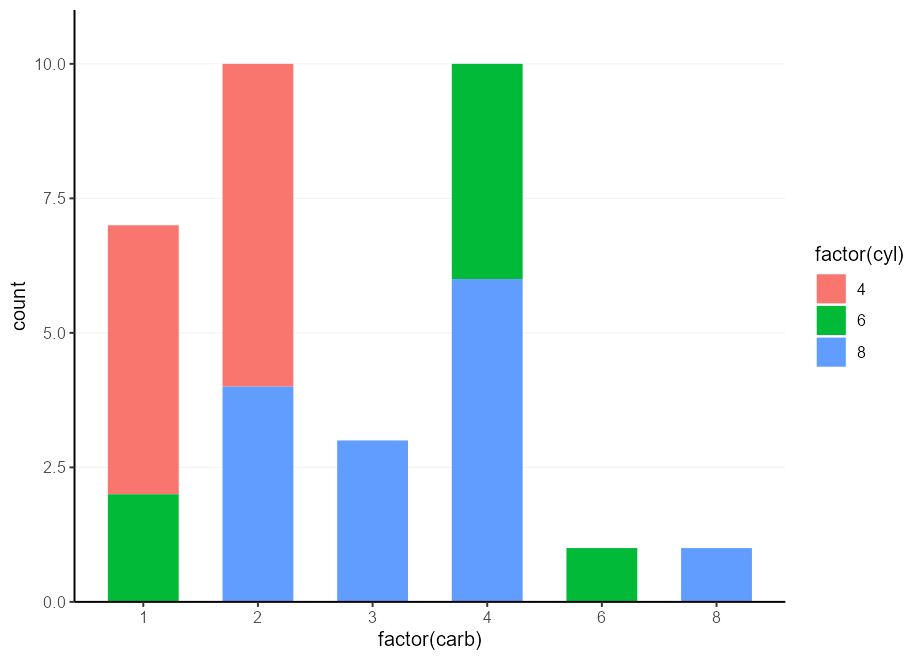
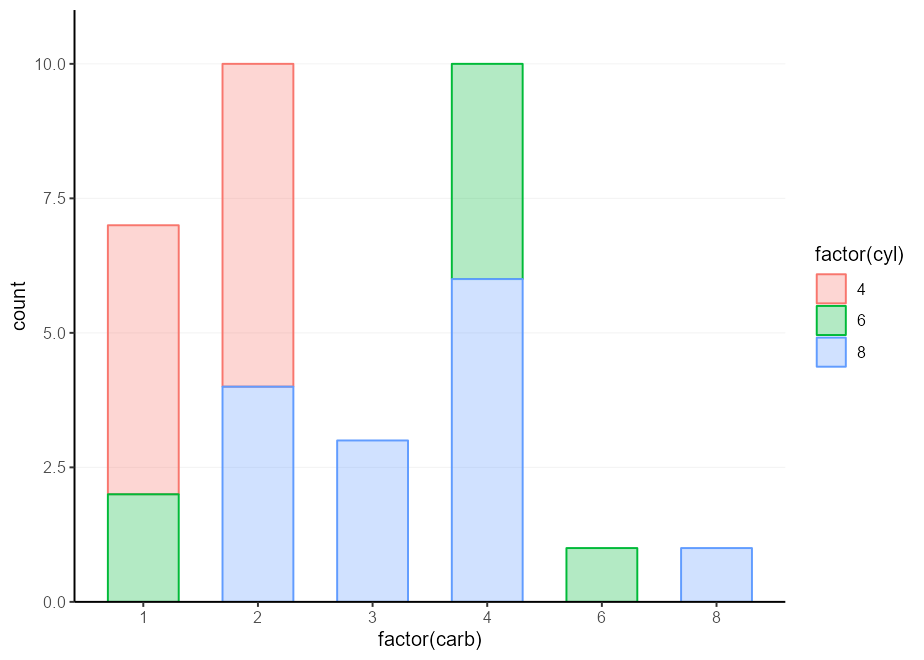
Add splicing

diff --git a/README.md b/README.md
@@ -24,15 +24,18 @@ decide later to put them into separate groups in other files.
 ## Table of contents
 
 1.  [Start-up](#let's-begin)
-2.  [Half-geoms](#half-geoms)
+2.  [Splicing aesthetics](#splicing-aesthetics)
+    1.  [Colour-fill relations](#relating-colour-and-fill)
+    2.  [Text contrast](#text-contrast)
+3.  [Half-geoms](#half-geoms)
     1.  [Half-boxplots](#half-boxplots)
     2.  [Half-errorbars](#half-errorbars)
     3.  [Half-violin](#half-violin)
     4.  [Combining](#combining)
-3.  [Midpoints in diverging
+4.  [Midpoints in diverging
     scales](#setting-midpoints-in-divergent-scales)
-4.  [Facetted tags](#facetted-tags)
-5.  [Recycling plots](#recycling-plots)
+5.  [Facetted tags](#facetted-tags)
+6.  [Recycling plots](#recycling-plots)
     1.  [Functions](#functions)
     2.  [Skeletons](#skeletons)
     3.  [Ribcage](#ribcage)
@@ -62,6 +65,93 @@ theme_set(
 )
 ```
 
+## Splicing aesthetics
+
+The `?aes` documentation doesn’t tell you this, but you can splice the
+`mapping` argument in ggplot2. What does that mean? Well it means that
+you can compose the `mapping` argument on the go with `!!!`. This is
+especially nifty if you need to recycle aesthetics every once in a
+while.
+
+``` r
+my_mapping <- aes(x = foo, y = bar)
+
+aes(colour = qux, !!!my_mapping)
+#> Aesthetic mapping: 
+#> * `x`      -> `foo`
+#> * `y`      -> `bar`
+#> * `colour` -> `qux`
+```
+
+### Relating colour and fill
+
+My personal favourite use of this is to make the `fill` colour match the
+`colour` colour, but slightly lighter[^2]. We’ll use the delayed
+evaluation system for this, `after_scale()` in this case, which you’ll
+see more of in the section following this one. I’ll repeat this trick a
+couple of times throughout this document.
+
+``` r
+my_fill <- aes(fill = after_scale(alpha(colour, 0.3)))
+
+ggplot(mpg, aes(displ, hwy)) +
+  geom_point(aes(colour = factor(cyl), !!!my_fill), shape = 21)
+```
+
+<img src="man/figures/README-splice_colour-1.png" width="80%" style="display: block; margin: auto;" />
+
+### Text contrast
+
+You may find yourself in a situation wherein you’re asked to make a
+heatmap of a small number of variables. Typically, sequential scales run
+from light to dark or vice versa, which makes text in a single colour
+hard to read. We could devise a method to automatically write the text
+in white on a dark background, and black on a light background. The
+function below considers a lightness value for a colour, and returns
+either black or white depending on that lightness.
+
+``` r
+contrast <- function(colour) {
+  out   <- rep("black", length(colour))
+  light <- farver::get_channel(colour, "l", space = "hcl")
+  out[light < 50] <- "white"
+  out
+}
+```
+
+Now, we can make an aesthetic to be spliced into a layer’s `mapping`
+argument on demand.
+
+``` r
+autocontrast <- aes(colour = after_scale(contrast(fill)))
+```
+
+Lastly, we can test out our automatic contrast contraption. You may
+notice that it adapts to the scale, so you wouldn’t need to do a bunch
+of conditional formatting for this.
+
+``` r
+cors <- cor(mtcars)
+
+# Melt matrix
+df <- data.frame(
+  col = colnames(cors)[as.vector(col(cors))],
+  row = rownames(cors)[as.vector(row(cors))],
+  value = as.vector(cors)
+)
+
+# Basic plot
+p <- ggplot(df, aes(row, col, fill = value)) +
+  geom_raster() +
+  geom_text(aes(label = round(value, 2), !!!autocontrast)) +
+  coord_equal()
+
+p + scale_fill_viridis_c(direction =  1)
+p + scale_fill_viridis_c(direction = -1)
+```
+
+<img src="man/figures/README-splice_contrast-1.png" width="80%" style="display: block; margin: auto;" /><img src="man/figures/README-splice_contrast-2.png" width="80%" style="display: block; margin: auto;" />
+
 ## Half-geoms
 
 There are some extensions that offer half-geom versions of things. Of
@@ -81,7 +171,7 @@ respectively. This still works fine with `position = "dodge"`.
 
 ``` r
 # A basic plot to reuse for examples
-p <- ggplot(mpg, aes(class, displ, colour = class)) +
+p <- ggplot(mpg, aes(class, displ, colour = class, !!!my_fill)) +
   guides(colour = "none", fill = "none") +
   labs(y = "Engine Displacement [L]", x = "Type of car")
 
@@ -202,7 +292,7 @@ similar thing in vanilla ggplot2.
 
 Luckily, there is a mechanic in ggplot2’s position axes that let’s
 `-Inf` and `Inf` be interpreted as the scale’s minimum and maximum limit
-respectively[^2]. You can exploit this by choosing `x = Inf, y = Inf` to
+respectively[^3]. You can exploit this by choosing `x = Inf, y = Inf` to
 put the labels in a corner. You can also use `-Inf` instead of `Inf` to
 place at the bottom instead of top, or left instead of right.
 
@@ -250,7 +340,7 @@ p + facet_wrap(~ class, scales = "free") +
 
 Let’s say we’re tasked with making a bunch of similar plots, with
 different datasets and columns. For example, we might want to make a
-series of barplots[^3] with some specific pre-sets: we’d like the bars
+series of barplots[^4] with some specific pre-sets: we’d like the bars
 to touch the x-axis and not draw vertical gridlines.
 
 ### Functions
@@ -262,7 +352,7 @@ presets you want in your function.
 I case you might not know, there are various methods to [program with
 the `aes()`
 function](https://ggplot2.tidyverse.org/articles/ggplot2-in-packages.html#using-aes-and-vars-in-a-package-function),
-and using `{{ }}` (curly-curly) is one of the more flexible ways [^4].
+and using `{{ }}` (curly-curly) is one of the more flexible ways [^5].
 
 ``` r
 barplot_fun <- function(data, x) {
@@ -289,7 +379,7 @@ barplot_fun <- function(data, ...) {
     theme(panel.grid.major.x = element_blank())
 }
 
-barplot_fun(mpg, class, fill = factor(cyl))
+barplot_fun(mpg, class, colour = factor(cyl), !!!my_fill)
 ```
 
 <img src="man/figures/README-barplot_fun_ellipsis-1.png" width="80%" style="display: block; margin: auto;" />
@@ -309,7 +399,8 @@ barplot_skelly <- ggplot() +
   scale_y_continuous(expand = c(0, 0, 0.1, 0)) +
   theme(panel.grid.major.x = element_blank())
 
-my_plot <- barplot_skelly %+% mpg + aes(class, fill = factor(cyl)) 
+my_plot <- barplot_skelly %+% mpg + 
+  aes(class, colour = factor(cyl), !!!my_fill) 
 my_plot
 ```
 
@@ -320,12 +411,13 @@ filled in the `data` and `mapping` arguments, you can just replace them
 again and again.
 
 ``` r
-my_plot %+% mtcars + aes(factor(carb), fill = factor(cyl))
+my_plot %+% mtcars + 
+  aes(factor(carb), colour = factor(cyl), !!!my_fill)
 ```
 
 <img src="man/figures/README-barplot_skelly_replace-1.png" width="80%" style="display: block; margin: auto;" />
 
-### Ribcage[^5]
+### Ribcage[^6]
 
 The idea here is to not skeletonise the entire plot, but just a
 frequently re-used set of parts. For example, we might want to label our
@@ -336,23 +428,23 @@ together with the main plot call.
 
 ``` r
 labelled_bars <- list(
-  geom_bar(width = 0.618),
+  geom_bar(my_fill, width = 0.618),
   geom_text(
     stat = "count",
     aes(y     = after_stat(count), 
         label = after_stat(count), 
-        fill  = NULL),
-    vjust = -1
+        fill  = NULL, colour = NULL),
+    vjust = -1, show.legend = FALSE
   ),
   scale_y_continuous(expand = c(0, 0, 0.1, 0)),
   theme(panel.grid.major.x = element_blank())
 )
 
-ggplot(mpg, aes(class, fill = factor(cyl))) +
+ggplot(mpg, aes(class, colour = factor(cyl))) +
   labelled_bars +
   ggtitle("The `mpg` dataset")
 
-ggplot(mtcars, aes(factor(carb), fill = factor(cyl))) +
+ggplot(mtcars, aes(factor(carb), colour = factor(cyl))) +
   labelled_bars +
   ggtitle("The `mtcars` dataset")
 ```
@@ -367,14 +459,14 @@ Session info
     #> ─ Session info ───────────────────────────────────────────────────────────────
     #>  setting  value
     #>  version  R version 4.2.2 (2022-10-31 ucrt)
-    #>  os       Windows 10 x64 (build 22000)
+    #>  os       Windows 10 x64 (build 22621)
     #>  system   x86_64, mingw32
     #>  ui       RTerm
     #>  language (EN)
     #>  collate  English_United Kingdom.utf8
     #>  ctype    English_United Kingdom.utf8
     #>  tz       Europe/Berlin
-    #>  date     2023-02-05
+    #>  date     2023-02-14
     #>  pandoc   2.19.2
     #> 
     #> ─ Packages ───────────────────────────────────────────────────────────────────
@@ -390,7 +482,7 @@ Session info
     #>  farver        2.1.1   2022-07-06 []  CRAN (R 4.2.1)
     #>  fastmap       1.1.0   2021-01-25 []  CRAN (R 4.2.0)
     #>  generics      0.1.3   2022-07-05 []  CRAN (R 4.2.1)
-    #>  ggplot2     * 3.4.0   2022-11-04 []  CRAN (R 4.2.2)
+    #>  ggplot2     * 3.4.1   2023-02-10 []  CRAN (R 4.2.2)
     #>  glue          1.6.2   2022-02-24 []  CRAN (R 4.2.0)
     #>  gtable        0.3.1   2022-09-01 []  CRAN (R 4.2.1)
     #>  highr         0.10    2022-12-22 []  CRAN (R 4.2.2)
@@ -417,6 +509,7 @@ Session info
     #>  tidyselect    1.2.0   2022-10-10 []  CRAN (R 4.2.2)
     #>  utf8          1.2.2   2021-07-24 []  CRAN (R 4.2.0)
     #>  vctrs         0.5.0   2022-10-22 []  CRAN (R 4.2.2)
+    #>  viridisLite   0.4.1   2022-08-22 []  CRAN (R 4.2.1)
     #>  withr         2.5.0   2022-03-03 []  CRAN (R 4.2.0)
     #>  xfun          0.36    2022-12-21 []  CRAN (R 4.2.2)
     #>  yaml          2.3.5   2022-02-21 []  CRAN (R 4.2.0)
@@ -432,15 +525,20 @@ Session info
     Copy-paste that script for every project. Then, truly, *never* again
     :heart:.
 
-[^2]: Unless you self-sabotage your plots by setting
+[^2]: This is a lie. In reality, I use
+    `aes(colour = after_scale(colorspace::darken(fill, 0.3)))` instead
+    of lightening the fill. I didn’t want this README to have a
+    dependency on {colorspace} though.
+
+[^3]: Unless you self-sabotage your plots by setting
     `oob = scales::oob_censor_any` in the scale for example.
 
-[^3]: In your soul of souls, do you *really* want to make a bunch of
+[^4]: In your soul of souls, do you *really* want to make a bunch of
     barplots though?
 
-[^4]: The alternative is to use the `.data` pronoun, which can be
+[^5]: The alternative is to use the `.data` pronoun, which can be
     `.data$var` if you want to lock in that column in advance, or
     `.data[[var]]` when `var` is passed as a character.
 
-[^5]: This bit was originally called ‘partial skeleton’, but as a
+[^6]: This bit was originally called ‘partial skeleton’, but as a
     ribcage is a part of a skeleton, this title sounded more evocative.
